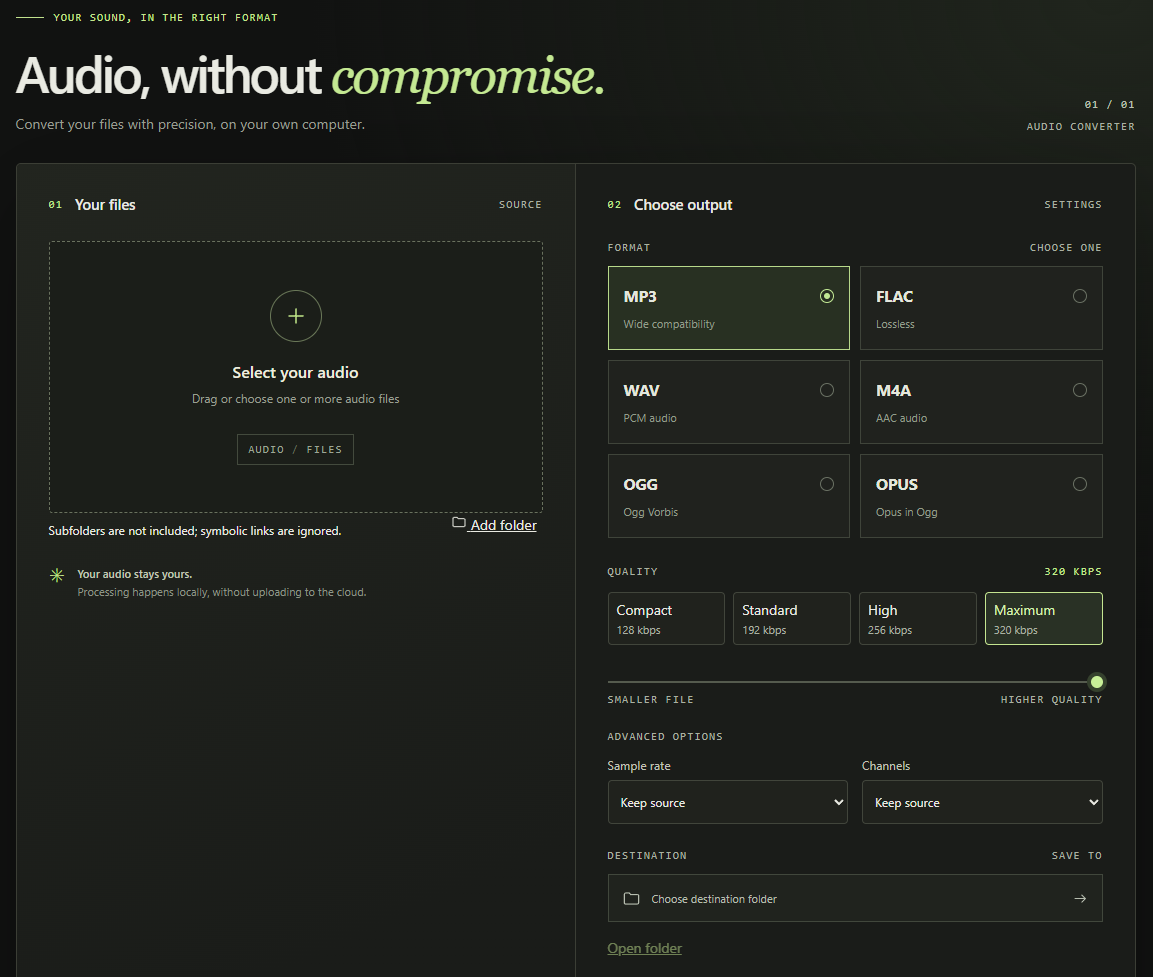
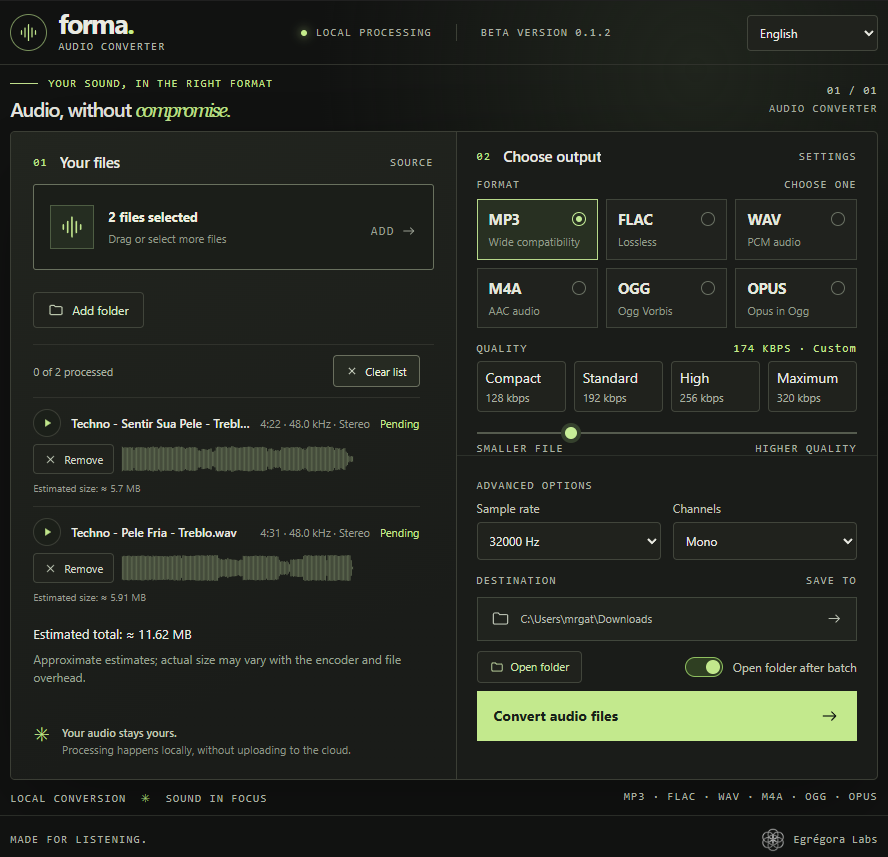
Refresh README and screenshot for 0.1.2
The README covers playback and waveform seeking, per-file details, remembered sessions and the folder scope note, points at the 0.1.2 installer and its corresponding sources, and documents the notices staging step. The screenshot is the compact window with two queued files.

diff --git a/README.md b/README.md
@@ -2,11 +2,11 @@
 
 A free, open-source audio converter for Windows that converts audio files in batches, entirely on your own computer. No uploads, no accounts, no cloud processing.
 
-Forma Audio Converter is a small desktop app built with Tauri, Rust and React. It takes a list of audio files, converts them to the format you choose, and saves the results next to your originals without ever modifying or overwriting the source files.
+Forma Audio Converter is a small desktop app built with Tauri, Rust and React. It takes a list of audio files, converts them to the format you choose, and saves the results next to your originals without ever modifying or overwriting the source files. You can listen to each track before converting, see its waveform, and jump to any point in it.
 
 **Download the installer:** [latest release](https://github.com/lucasgattas/Forma-Audio-Converter/releases/latest)
 
-![Forma Audio Converter running on Windows 11, with the audio file queue on the left and the output format, quality and destination settings on the right](assets/screenshot.png)
+![Forma Audio Converter running on Windows 11, with two audio files queued on the left, each showing a waveform with its duration, sample rate and channel count, and the output format, quality and destination settings on the right](assets/screenshot.png)
 
 ## What it does
 
@@ -14,15 +14,18 @@ Forma Audio Converter is a small desktop app built with Tauri, Rust and React. I
 - **Six output formats.** MP3, FLAC, WAV (PCM), M4A (AAC), Ogg Vorbis and Opus.
 - **Free quality control.** A continuous bitrate slider from 128 to 320 kbps for lossy formats, plus sample rate, channel count and WAV bit depth. Quality presets are shortcuts, not limits.
 - **Your files stay yours.** Conversion happens locally. Originals are never modified, existing files are never overwritten, and results get a numbered name when a file with that name already exists.
+- **Listen before you convert.** Play any file in the queue, follow the playhead across its waveform, and click or drag on the waveform to start from another point.
+- **One glance per file.** Name, duration, sample rate and channels sit on the same line for every track in the queue, not just the selected one.
+- **Remembers your last session.** Queue, destination and settings come back when you reopen the app, with each format keeping the quality you last chose for it.
 - **Metadata and cover art preserved.** Tags and embedded artwork survive conversion in MP3, FLAC, M4A and Ogg/Opus.
 - **Progress, cancellation and retry.** Follow each file, cancel a running batch, retry only what failed.
 - **Five languages.** English, Brazilian Portuguese, Spanish, French and German, remembered between sessions.
-- **No telemetry, no network access.** The app does not contact any server.
+- **No telemetry, no network access.** The app does not contact any server. Playback reads your local files through a private in-app protocol, and only files already in the queue can be served.
 
 ## Download and install
 
 1. Go to the [latest release](https://github.com/lucasgattas/Forma-Audio-Converter/releases/latest).
-2. Download `Forma-Audio-Converter_0.1.0_x64-setup.exe`.
+2. Download `Forma-Audio-Converter_0.1.2_x64-setup.exe`.
 3. Run it. The app installs for the current user, so no administrator rights are needed.
 
 Requirements: Windows 10 or 11, 64-bit.
@@ -32,12 +35,15 @@ Notes:
 - The installer is not code-signed yet, so Windows SmartScreen may warn about an unknown publisher. Choose **More info**, then **Run anyway**.
 - FFmpeg is included in the installer. You do not need to install anything else.
 - If Windows Defender Controlled Folder Access protects your music folder, the converter may be blocked from writing there. Choose a different destination folder, or allow the app explicitly.
+- Folder selection takes the files directly inside the folder. Subfolders are not included and symbolic links are ignored.
 
-Third-party components and their licenses are listed in `THIRD-PARTY-NOTICES.txt`, which the installer places next to the application. The corresponding source code is published as a release asset (`forma-0.1.0-corresponding-sources.tar.gz`).
+Third-party components and their licenses are listed in `THIRD-PARTY-NOTICES.txt`, which the installer places next to the application. The corresponding source code for the bundled FFmpeg build is published as a release asset, `forma-0.1.2-corresponding-sources.tar.gz`, listed with the installer in the same `SHA256SUMS.txt`.
 
 ## How it works
 
 Forma is a thin, careful front end over FFmpeg. The Rust backend resolves `ffmpeg.exe` and `ffprobe.exe` from the bundled `local-ffmpeg` folder next to the application, verifies each file before use, and runs conversion jobs one at a time so a large batch cannot exhaust the machine.
+
+The waveform is measured, not guessed: the backend decodes each queued file to mono audio at a low sample rate, keeps the peak of every hundred milliseconds, and sends only those numbers to the interface. The web view never receives the audio itself, and the player serves a track only when its path is in the current queue.
 
 Every conversion writes to a temporary file first and only moves it into place once it is complete, so an interrupted run never leaves a half-written file where you expected a result.
 
@@ -57,13 +63,20 @@ npm run build       # frontend only
 npm run tauri build # desktop application and installer
 ```
 
+A release build copies the third-party notices and license texts into `packaging/notices/` before bundling, so the installer carries them:
+
+```sh
+npm run stage:release
+```
+
 ## Project layout
 
 | Path | Contents |
 | --- | --- |
-| `src/` | React frontend: `App.tsx`, translations, styles |
-| `src-tauri/src/` | Rust backend: conversion engine, queue, tool resolution, folder scanning |
+| `src/` | React frontend: `App.tsx`, `Waveform.tsx`, translations, persistence, styles |
+| `src-tauri/src/` | Rust backend: conversion engine, queue, tool resolution, folder scanning, playback protocol, waveform peaks |
 | `src-tauri/tests/`, `tests/` | Rust and Node test suites |
+| `packaging/notices/` | Third-party notices and license texts copied into the installer |
 | `src-tauri/tauri.conf.json` | Desktop application configuration |
 
 Tests:

diff --git a/docs/code-signing.md b/docs/code-signing.md
@@ -1,0 +1,68 @@
+# Assinatura de código no Windows
+
+Estado em 07/11/2026: **os instaladores saem sem assinatura**.
+Consequência prática: o Windows mostra "editor desconhecido" (unknown publisher) e o
+SmartScreen pode exibir "O Windows protegeu o PC" até o arquivo ganhar reputação.
+Não existe atalho honesto para isso: ou o binário é assinado, ou o aviso aparece.
+
+## O que já está verificado nesta máquina
+
+- Nenhum certificado de assinatura de código instalado para o usuário atual
+  (`Cert:\CurrentUser\My -CodeSigningCert` retorna vazio).
+- `signtool.exe` disponível no Windows SDK (`C:\Program Files (x86)\Windows Kits\10\bin`).
+- O projeto Tauri tem o suporte de assinatura pronto para ser ligado, sem mudança de código.
+
+## O que falta, e depende de você
+
+Um certificado de assinatura de código Autenticode emitido por uma CA. As opções reais:
+
+| Tipo | O que exige | Efeito no SmartScreen |
+|---|---|---|
+| OV (Organization Validation) | CNPJ/documento da empresa, verificação de identidade e telefone, chave em arquivo ou token | reputação começa do zero e é construída com downloads |
+| EV (Extended Validation) | o mesmo mais validação estendida e chave em token/HSM obrigatório | reputação de SmartScreen imediata |
+| Azure Trusted Signing | conta Azure, validação de identidade da organização, taxa mensal | assina na nuvem, sem token físico |
+
+Faixa de preço atual: OV de algumas centenas de reais por ano, EV bem acima disso,
+Trusted Signing com mensalidade. Isso é custo e decisão sua, não meu.
+
+Enquanto o projeto for MIT e gratuito, a alternativa aceitável é documentar o aviso
+("instalador não assinado, o Windows vai pedir confirmação") e publicar o SHA-256 de cada
+ativo na release, que é o que já acontece.
+
+## Como ligar quando o certificado existir
+
+1. Instalar o certificado no repositório do usuário ou da máquina, com chave privada.
+2. Descobrir o thumbprint:
+   `powershell -NoProfile -Command "Get-ChildItem Cert:\CurrentUser\My -CodeSigningCert | Select-Object Subject,Thumbprint"`
+3. Acrescentar ao `src-tauri/tauri.public-release.conf.json`, dentro de `bundle`:
+
+   ```json
+   "windows": {
+     "certificateThumbprint": "A1B2C3...",
+     "digestAlgorithm": "sha256",
+     "timestampUrl": "http://timestamp.digicert.com"
+   }
+   ```
+
+   Se a chave estiver em token/HSM, o caminho é `signCommand` apontando para
+   `signtool sign /sha1 <thumbprint> /tr <timestampUrl> /td sha256 /fd sha256 %1`.
+4. Recompilar com a mesma receita já usada para o instalador privado.
+5. Verificar o resultado no próprio arquivo, não no log do build:
+
+   ```
+   signtool verify /pa /v "Forma Audio Converter_0.1.2_x64-setup.exe"
+   powershell -NoProfile -Command "(Get-AuthenticodeSignature 'arquivo.exe').Status"
+   ```
+
+   Esperado: `Valid` e assinatura com carimbo de tempo.
+6. Só então publicar. Um instalador assinado depois de publicado não resolve o aviso
+   para quem já baixou.
+
+## O que a assinatura cobre e não cobre
+
+- Cobre o instalador e o executável principal; as 18 DLLs/EXEs do FFmpeg continuam sem
+  assinatura, o que é normal para binários de terceiros.
+- Não substitui os avisos de licença. As obrigações de terceiros estão em
+  `THIRD-PARTY-NOTICES.txt` e `docs/ffmpeg-own-evidence/`.
+- Não elimina a auditoria de antivírus: o Defender já bloqueou uma pasta de destino
+  durante uma conversão, e isso é comportamento de varredura, não de assinatura.
